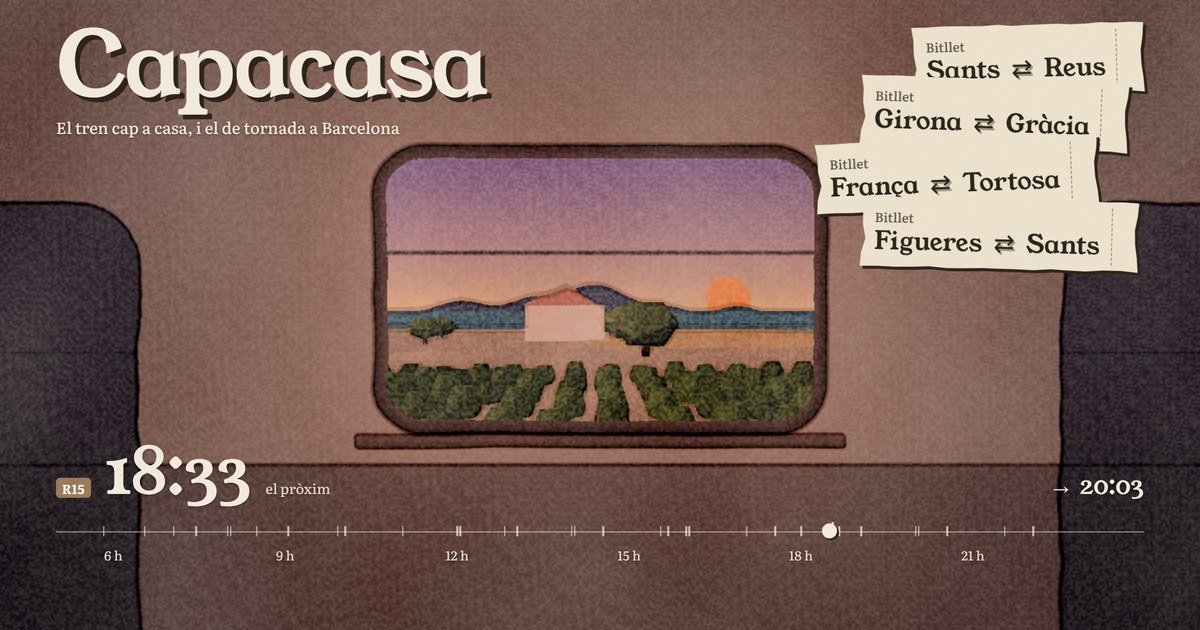
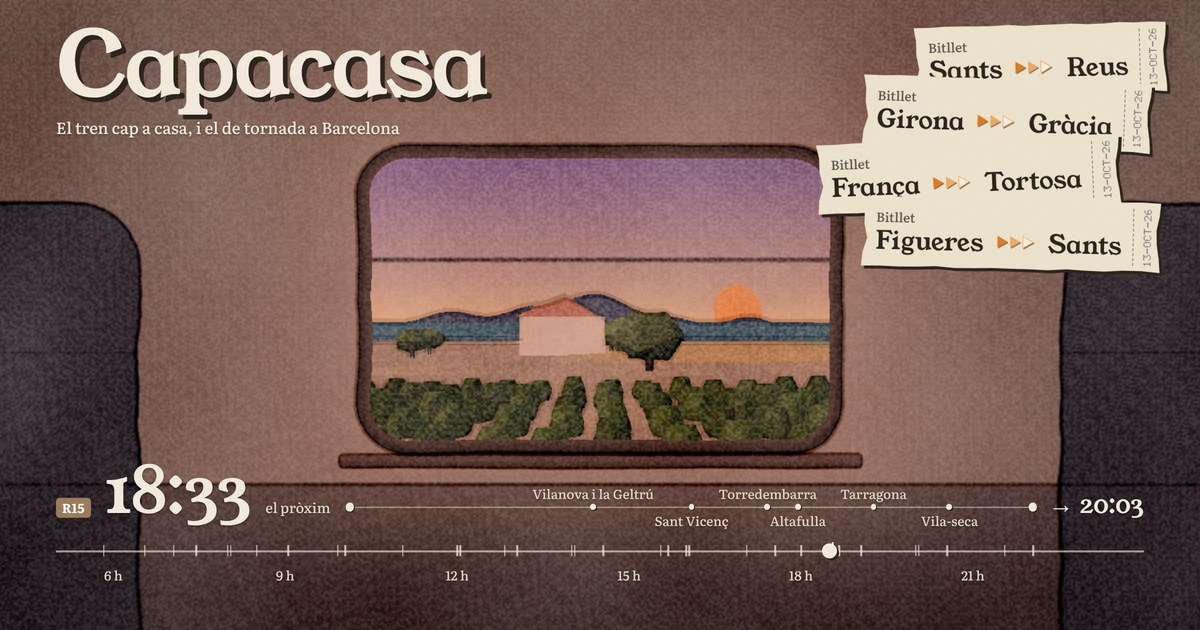
feat: share image with the new ticket (arrows, date, journey)
Claude-Session: https://claude.ai/code/session_01AEFYuWhQ3EBBbdSBe6LwjR

Changed region(s): [[0.0308, 0.0302, 0.9867, 1.0]]

diff --git a/docs/handoff.md b/docs/handoff.md
@@ -14,7 +14,7 @@ Todo el contexto necesario está en este repositorio. Decisiones: `docs/plan.md`
 
 **Enlace de compra (05-10, hecho):** el tren grande del tablero enlaza a Renfe: su hora (punteada) y «comprar ↗» abren en otra pestaña `venta.renfe.com/vol/buscarTren.do` con origen, destino y día (`src/buy.ts`, único sitio que conoce la URL). Los códigos de Renfe son los stop_id del GTFS (`0071,<id>,<id>`; todas las estaciones de `red.json` están en la lista de Renfe). Renfe no deja preseleccionar el tren: abre la lista del día. Trenes que salen pasadas las 24:00 buscan el día siguiente. **Arreglado el 06-10:** con solo códigos y fecha, Renfe daba E500 («En estos momentos no podemos atenderle») a quien no tenía una sesión de Renfe abierta, y a quien sí la tenía le enseñaba su búsqueda anterior; ahora el enlace lleva además los campos que manda el buscador de renfe.com (`adultos_`, `ninos_`, `ninosMenores`, `tipoBusqueda`, `currenLocation`, `vengoderenfecom=SI`), probado en el Mac con Playwright en navegador limpio, con sesión previa y en iPhone (15 de 15). `Idioma=ca` también funciona con el enlace nuevo, aunque Renfe deja a medias la traducción. Check 15 lo comprueba (`buy_link`, `RENFE_FIELDS`). Comprar dentro de la web se descartó: hace falta contrato con Renfe, servidor y cobros (investigación en `compra-billete/` de los archivos del proyecto).
 
-**Imagen al compartir (06-10, hecho):** `src/index.html` lleva `description`, Open Graph y `twitter:card=summary_large_image`; la imagen es `src/public/og.jpg` (1200 × 630): el hero real al atardecer con cuatro billetes apilados (Sants ⇄ Reus, Girona ⇄ Gràcia, França ⇄ Tortosa, Figueres ⇄ Sants; todos con tren directo en `red.json`; Passeig de Gràcia se escribe «Gràcia» en los billetes, por decisión de Àlex), una sola fila de ejemplo «R15 18:33 el pròxim → 20:03» (en catalán desde el 06-10) y la regla pegada a ella, sin cuenta atrás ni «ahora» para que no caduque (maquetas y notas en `propuestas-compartir/` de los archivos del proyecto). Se generó con Playwright sobre la web compilada a 2× (martes 06-10, 18:20, Sants → Reus) con CSS y JS inyectados: billetes clonados del real, segunda fila, cuenta atrás, «comprar» y «ahora» ocultos, tablero bajado 3,6 rem y regla subida 1,4 rem. Regenerada el 06-10 con Literata (PR #13) y otra vez en catalán, con el mismo procedimiento. Check 17 (`python3 scripts/check.py compartir`). El título de pestaña vivo y el icono de pantalla de inicio se descartaron (fila 4 del benchmark, «No»). **Falta verificarla en producción** tras fusionar: las URL de prueba de Vercel piden sesión y los robots no entran. LinkedIn: Post Inspector (linkedin.com/post-inspector, también refresca su caché). X: su validador ya no enseña vista previa; pegar el enlace en un post sin publicar. WhatsApp/iMessage: pegarlo en un chat con uno mismo.
+**Imagen al compartir (06-10, hecho; regenerada el 10-10):** `src/index.html` lleva `description`, Open Graph y `twitter:card=summary_large_image`; la imagen es `src/public/og.jpg` (1200 × 630): el hero real al atardecer con cuatro billetes apilados (Sants ▶▶▷ Reus, Girona ▶▶▷ Gràcia, França ▶▶▷ Tortosa, Figueres ▶▶▷ Sants; todos con tren directo en `red.json`; Passeig de Gràcia se escribe «Gràcia» en los billetes, por decisión de Àlex), cada uno con la fecha en el talón («13-OCT-26»), una sola fila de ejemplo «R15 18:33 el pròxim → 20:03» con el recorrido y sus paradas, y la regla pegada a ella, sin cuenta atrás ni «ara» para que no caduque (maquetas y notas en `propuestas-compartir/` de los archivos del proyecto). Se genera con Playwright sobre la web compilada a 2× (martes 13-10, 18:20, Sants → Reus; sin Open-Meteo ni `/api/avisos`) con CSS y JS inyectados: billetes clonados del real (con sus flechas), segunda fila, cuenta atrás, «compra’l», el reloj y «ara» ocultos, tablero bajado y regla subida; los billetes, 1,6 rem a la derecha para no tapar la ventanilla. Script y las tres opciones del 10-10 (A solo flechas, B flechas y fecha, C como el hero) en `og-flechas/` de los archivos del proyecto. Check 17 (`python3 scripts/check.py compartir`). El título de pestaña vivo y el icono de pantalla de inicio se descartaron (fila 4 del benchmark, «No»). Comprobada en producción el 09-10 en X, WhatsApp y LinkedIn (la versión con ⇄); para la nueva, LinkedIn guarda la anterior en caché: Post Inspector (linkedin.com/post-inspector) la refresca. Desde la nube el proxy no deja abrir `reus-web.vercel.app`: lo comprueba Àlex.
 
 **Tablero móvil 6B (06-10, hecho, PR #11):** en móvil (la misma media query del hero apilado) cada fila del tablero es un botón con sus horas, «en 13 min» solo en el grande, «mañana» donde toca y «›» al final; pulsarla la hace el tren mostrado y abre `#detalle`, un `<dialog>` nativo con una hoja de papel que sube desde abajo (`src/detail.ts`, `src/styles/detail.css`): línea y trayecto, horas, cuánto falta, duración y paradas (`stopsBetween` en `src/time.ts`), el aviso del AVE y «Comprar en Renfe ↗». En escritorio el tablero no cambia. Check `check_phone_board` dentro de `check.py hero`. En móvil las horas no van levantadas: «›» es la señal.
 
@@ -52,7 +52,7 @@ Todo el contexto necesario está en este repositorio. Decisiones: `docs/plan.md`
 
 **Reloj de andén (09-10, en PR #30):** lejos de ahora (al elegir otro tren), sobre la rayita de «ara» y en lugar de la palabra, un reloj de estación suizo (Hilfiker) dibujado en SVG (`#nowBtn` en `src/index.html`, ahora dentro de `.track`) con la hora de ahora; levantado, y al pulsarlo vuelve a ahora. Sustituye al botón de texto «Tornar a ara» (el nombre se queda en `aria-label` para el lector). Las agujas salen de variables CSS (`--h`, `--m`, `--s`, `clock()` en `src/timetable.ts`); el segundero da la vuelta en 58,5 s y espera al minuto, salvo con `prefers-reduced-motion`. El hero se redibuja en cada cambio de minuto (antes cada 30 s y solo con la hora en marcha), también lejos de ahora, para que el reloj y «ara» no se queden atrás. 2,5 rem en escritorio y 1,75 rem en móvil (Àlex). Opciones descartadas (T0 «ara» como botón, T2 salto a lápiz, T3 sol pintado) y referencias en `hero-menos-texto/` de los archivos del proyecto. Check dentro de `check.py hero` (a las 23:10).
 
-**Billete con flechas y fecha (09-10, en PR):** opciones A y C de cuatro (Àlex), sacadas de fotos de billetes reales de Rodalies. A: «Sants ▶▶▷ Reus», tres flechas SVG que se apagan sustituyen a ⇄ y siguen siendo el botón `.tk .swap` (`aria-label` «Canviar el sentit»). C: en el talón, la fecha del tren mostrado (mañana si el tablero enseña el primero de mañana) impresa en matriz de puntos 5×7 y de lado («09-OCT-26»; `src/dots.ts` dibuja círculos SVG: no es una tercera fuente), `aria-hidden` (el lector ya oye el tren). El folleto de la mesa dice «les fletxes els giren» (mismo alto en 7 tamaños). `og.jpg` sigue enseñando ⇄: regenerarla es opcional. Check dentro de `check.py hero` (tres flechas, fecha de hoy y de mañana). Maquetas en `hero-menos-texto/v4/`.
+**Billete con flechas y fecha (09-10, en PR):** opciones A y C de cuatro (Àlex), sacadas de fotos de billetes reales de Rodalies. A: «Sants ▶▶▷ Reus», tres flechas SVG que se apagan sustituyen a ⇄ y siguen siendo el botón `.tk .swap` (`aria-label` «Canviar el sentit»). C: en el talón, la fecha del tren mostrado (mañana si el tablero enseña el primero de mañana) impresa en matriz de puntos 5×7 y de lado («09-OCT-26»; `src/dots.ts` dibuja círculos SVG: no es una tercera fuente), `aria-hidden` (el lector ya oye el tren). El folleto de la mesa dice «les fletxes els giren» (mismo alto en 7 tamaños). `og.jpg` se regeneró con las flechas el 10-10. Check dentro de `check.py hero` (tres flechas, fecha de hoy y de mañana). Maquetas en `hero-menos-texto/v4/`.
 
 **Título del cuaderno (08-10):** la hoja interior del cuaderno de la mesa dice «Llibre de viatge · tècnica» (antes «Quadern · tècnica»), como su tapa.
 

diff --git a/docs/plan.md b/docs/plan.md
@@ -161,3 +161,4 @@ Web de horarios de tren Barcelona Sants ↔ Reus cuyo fondo es un paisaje en acu
 | Sin «Què és i com s’ha fet ↓» en el hero (09-10): se quita el enlace que bajaba a la mesa | Dejarlo; una flecha «↓» sola | Àlex: aligerar la carga de texto. Riesgo aceptado: nada en el hero avisa de que hay más abajo |
 | Avisos de incidencias de las líneas (09-10): en escritorio, opción A, un sello de tinta en el billete («Avís R15 / per carretera ›», levantado, con el grano de `--grano-sello`) cuando una línea regional del tablero tiene un aviso de la Generalitat; pulsarlo abre una hoja recortada con el texto entero, la hora de consulta, «Més a rodalies.gencat.cat ↗» y «No substitueix la informació oficial». El sello ocupa su propia franja junto a «Bitllet» para no pisar un trayecto corto. En móvil, nada en el tablero: la hoja del tren dice el aviso de su línea (enmarcado en la tinta del sello), «Sense avisos a l’R15 (consultat a les 09:58)» o «No hem pogut consultar els avisos de l’R15»; el AVE, «De l’AVE no tenim avisos» | B (nota grapada bajo el billete), C (cartel en la pared y la regla teñida); en móvil, el sello en el billete | Àlex (09-10): «en escritorio la A, en móvil la D», y en móvil «en el detalle». Un silencio nunca se lee como «todo bien»: sin respuesta, el móvil lo dice |
 | Detalles del billete de Rodalies (09-10, opciones A y C): A, tres flechas que se apagan ▶▶▷ (naranja, naranja claro, en blanco) sustituyen a ⇄ y siguen siendo el botón que cambia el sentido; C, en el talón, la fecha del tren mostrado impresa en matriz de puntos 5×7, de lado, como la que estampa la máquina («09-OCT-26», meses en catalán; dibujada con círculos SVG, no con una tercera fuente) | B · horas del tablero en matriz de puntos (rompe la regla de Young Serif para las horas); el billete de Rodalies de la mesa copiando el trayecto (ya descartado el 09-10) | Àlex, tras ver tres fotos de billetes reales: detalles de calidad que vienen del objeto real, sin añadir texto al hero. Maquetas en `hero-menos-texto/v4/` de los archivos del proyecto |
+| Imagen al compartir con el billete nuevo (10-10, opción C): `og.jpg` retrata el hero de hoy, con las flechas ▶▶▷ en los cuatro billetes, la fecha en el talón («13-OCT-26») y el recorrido con paradas en la fila de ejemplo; los billetes, 1,6 rem a la derecha para no tapar la ventanilla | A · solo las flechas (sin fecha ni recorrido); B · flechas y fecha, sin recorrido | La imagen retrata el hero real, y el recorrido llena el hueco de la fila. La fecha fija se lee como la de un billete, no como «hoy». Opciones en `og-flechas/` de los archivos del proyecto |
